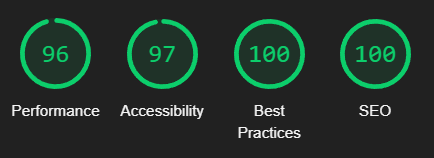
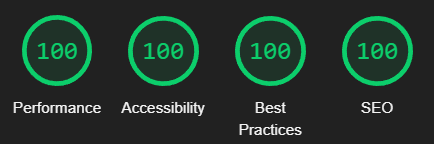
Update Portfolio lighthouse picture

diff --git a/src/assets/index.js b/src/assets/index.js
@@ -25,7 +25,7 @@ import cityViewerCity from "./images/projects/cityViewer/cityViewer-city.webp";
 import portfolioHero from "./images/projects/portfolio/portfolio-hero.webp";
 import portfolioSkills from "./images/projects/portfolio/portfolio-skills.webp";
 import portfolioContact from "./images/projects/portfolio/portfolio-contact.webp";
-import portfolioLighthouse from "./images/projects/portfolio-png/portfolio-lighthouse.PNG";
+import portfolioLighthouse from "./images/projects/portfolio/portfolio-lighthouse.webp";
 
 //FrameByFrame Image
 import typing1 from "./images/framebyframe/typing1.webp";
